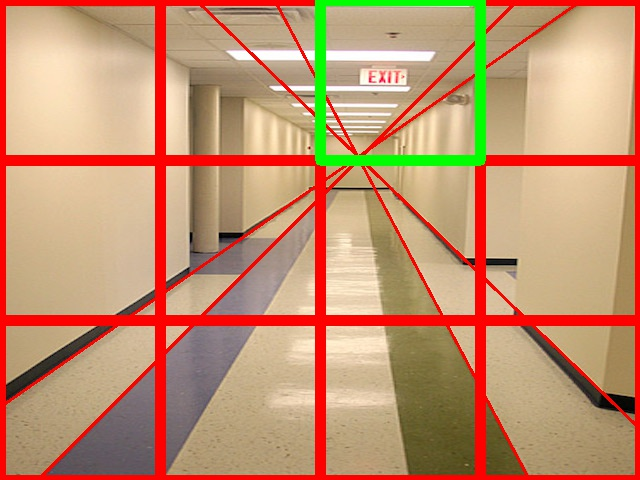
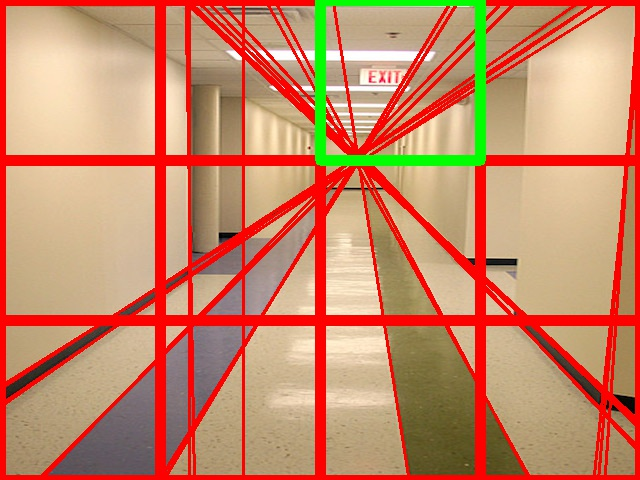
our version of vanishing point detection

diff --git a/algorithms/vanishing-point/pi_vanishingpoint.py b/algorithms/vanishing-point/pi_vanishingpoint.py
@@ -4,49 +4,57 @@ from picamera.array import PiRGBArray
 from picamera import PiCamera
 from VanishingPoint import *
 
-# initialize the camera and grab a reference to the raw camera capture
+# rasp pi
+# initialize rasp pi camera and grab a reference to the raw camera capture
 camera = PiCamera()
 camera.resolution = (640, 480)
 camera.framerate = 32
 rawCapture = PiRGBArray(camera, size=(640, 480))
+
+# laptop camera
+#video_capture = cv2.VideoCapture(0)
 
 # allow the camera to warmup
 time.sleep(0.1)
 
 kernel = np.ones((15, 15), np.uint8)
 
+# rasp pi
 for frame in camera.capture_continuous(rawCapture, format="bgr", use_video_port=True):
     img = frame.array
-
- #   gray = cv2.cvtColor(image, cv2.COLOR_BGR2GRAY)
- #   opening = cv2.morphologyEx(gray, cv2.MORPH_OPEN, kernel)  # Open (erode, then dilate)
- #   edges = cv2.Canny(opening, 50, 150, apertureSize=3)  # Canny edge detection
+#while True:
+#    if not video_capture.isOpened():
+#        print('Unable to load camera.')
+#        sleep(5)
+#        pass
+    
+# Capture frame-by-frame
+#    ret, img = video_capture.read()
+    
     gray = cv2.cvtColor(img, cv2.COLOR_BGR2GRAY)  # Convert image to grayscale
-
     kernel = np.ones((15, 15), np.uint8)
     opening = cv2.morphologyEx(gray, cv2.MORPH_OPEN, kernel)  # Open (erode, then dilate)
-    
     edges = cv2.Canny(opening, 50, 150, apertureSize=3)  # Canny edge detection
-    
-    #lines = cv2.HoughLines(edges, 1, np.pi / 180, 200)  # Hough line detection
-    #hough_lines = []
+    lines = cv2.HoughLines(edges, 1, np.pi / 180, 200)  # Hough line detection
+    hough_lines = []
 
     # Lines are represented by rho, theta; convert to endpoint notation
-    #for line in lines:
-    #    for rho, theta in line:
-    #        a = np.cos(theta)
-    #        b = np.sin(theta)
-    #        x0 = a * rho
-    #        y0 = b * rho
-    #        x1 = int(x0 + 1000 * (-b))
-    #        y1 = int(y0 + 1000 * (a))
-    #        x2 = int(x0 - 1000 * (-b))
-    #        y2 = int(y0 - 1000 * (a))
+    if lines != None:
+        for line in lines:
+            for rho, theta in line:
+                a = np.cos(theta)
+                b = np.sin(theta)
+                x0 = a * rho
+                y0 = b * rho
+                x1 = int(x0 + 1000 * (-b))
+                y1 = int(y0 + 1000 * (a))
+                x2 = int(x0 - 1000 * (-b))
+                y2 = int(y0 - 1000 * (a))
 
-            #cv2.line(img, (x1, y1), (x2, y2), (0, 0, 255), 2)
-            #hough_lines.append(((x1, y1), (x2, y2)))
+                cv2.line(img, (x1, y1), (x2, y2), (0, 0, 255), 2)
+                hough_lines.append(((x1, y1), (x2, y2)))
 
-    cv2.imshow("Frame", edges)
+    cv2.imshow("Frame", img)
                 
     if cv2.waitKey(1) & 0xFF == ord('q'):
         break
@@ -54,5 +62,6 @@ for frame in camera.capture_continuous(rawCapture, format="bgr", use_video_port=
     # clear the stream in preparation for the next frame
     rawCapture.truncate(0)
 
+#video_capture.release()
 # When everything is done, release the capture
 cv2.destroyAllWindows()

diff --git a/algorithms/vanishing-point/webcam_vanishingpoint.py b/algorithms/vanishing-point/webcam_vanishingpoint.py
@@ -1,0 +1,67 @@
+import os
+import time
+#from picamera.array import PiRGBArray
+#from picamera import PiCamera
+from VanishingPoint import *
+
+# rasp pi
+# initialize rasp pi camera and grab a reference to the raw camera capture
+#camera = PiCamera()
+#camera.resolution = (640, 480)
+#camera.framerate = 32
+#rawCapture = PiRGBArray(camera, size=(640, 480))
+
+# laptop camera
+video_capture = cv2.VideoCapture(0)
+
+# allow the camera to warmup
+time.sleep(0.1)
+
+kernel = np.ones((15, 15), np.uint8)
+
+# rasp pi
+#for frame in camera.capture_continuous(rawCapture, format="bgr", use_video_port=True):
+#    img = frame.array
+while True:
+    if not video_capture.isOpened():
+        print('Unable to load camera.')
+        sleep(5)
+        pass
+    
+    # Capture frame-by-frame
+    ret, img = video_capture.read()
+    
+    gray = cv2.cvtColor(img, cv2.COLOR_BGR2GRAY)  # Convert image to grayscale
+    kernel = np.ones((15, 15), np.uint8)
+    opening = cv2.morphologyEx(gray, cv2.MORPH_OPEN, kernel)  # Open (erode, then dilate)
+    edges = cv2.Canny(opening, 50, 150, apertureSize=3)  # Canny edge detection
+    lines = cv2.HoughLines(edges, 1, np.pi / 180, 200)  # Hough line detection
+    hough_lines = []
+
+    # Lines are represented by rho, theta; convert to endpoint notation
+    if lines != None:
+        for line in lines:
+            for rho, theta in line:
+                a = np.cos(theta)
+                b = np.sin(theta)
+                x0 = a * rho
+                y0 = b * rho
+                x1 = int(x0 + 1000 * (-b))
+                y1 = int(y0 + 1000 * (a))
+                x2 = int(x0 - 1000 * (-b))
+                y2 = int(y0 - 1000 * (a))
+
+                cv2.line(img, (x1, y1), (x2, y2), (0, 0, 255), 2)
+                hough_lines.append(((x1, y1), (x2, y2)))
+
+    cv2.imshow("Frame", img)
+                
+    if cv2.waitKey(1) & 0xFF == ord('q'):
+        break
+    
+    # clear the stream in preparation for the next frame
+    #rawCapture.truncate(0)
+
+video_capture.release()
+# When everything is done, release the capture
+cv2.destroyAllWindows()
